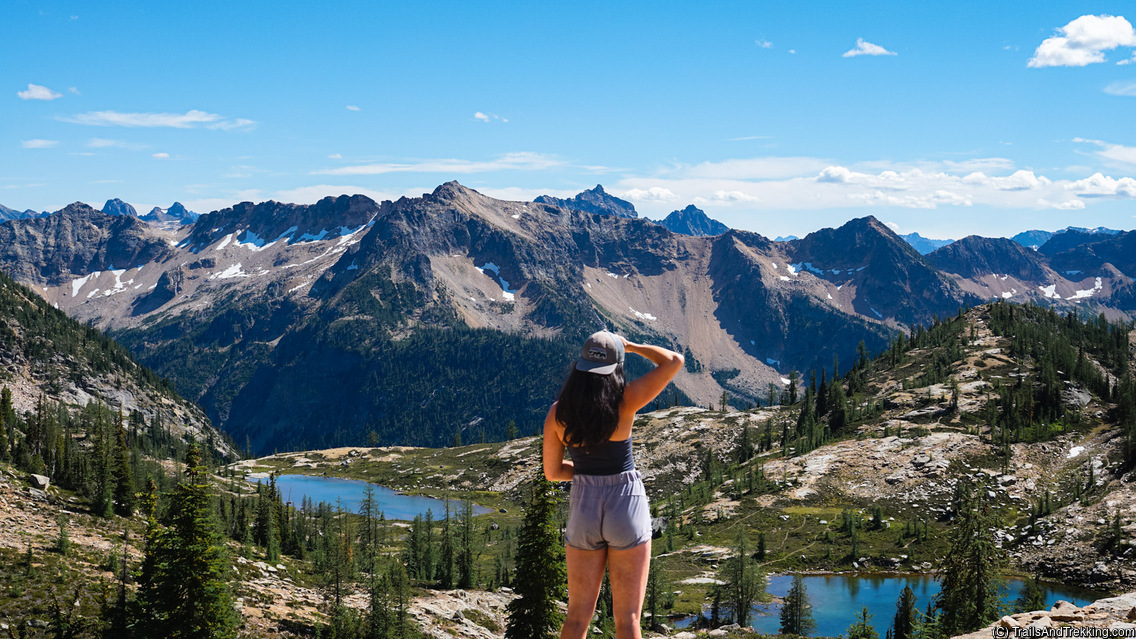
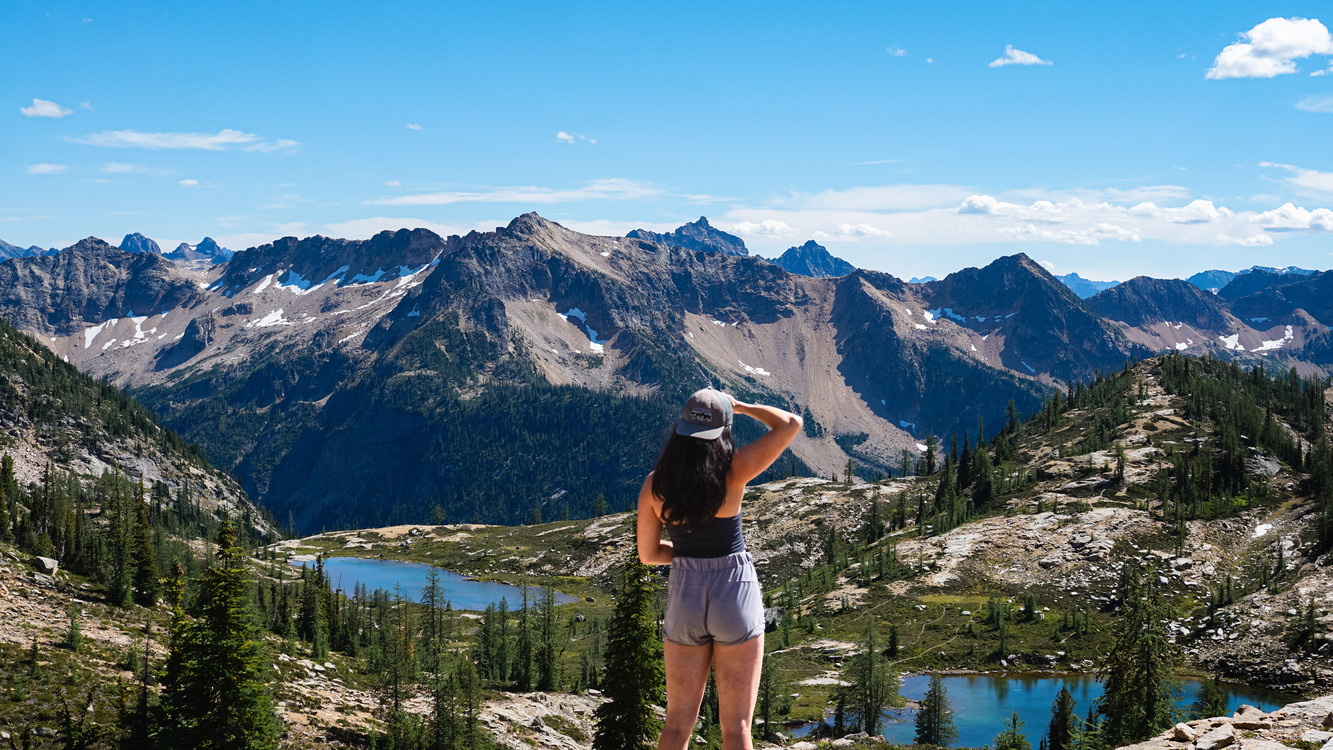
Sharpen image

diff --git a/components/index.module.css b/components/index.module.css
@@ -12,8 +12,8 @@
 
 .cover_image {
   background-image: url("/cover-wide.jpg");
-  height: 639px;
-  width: 1136px;
+  height: 750px;
+  width: 1333px;
   border-radius: 5px;
 
   background-position: center;
